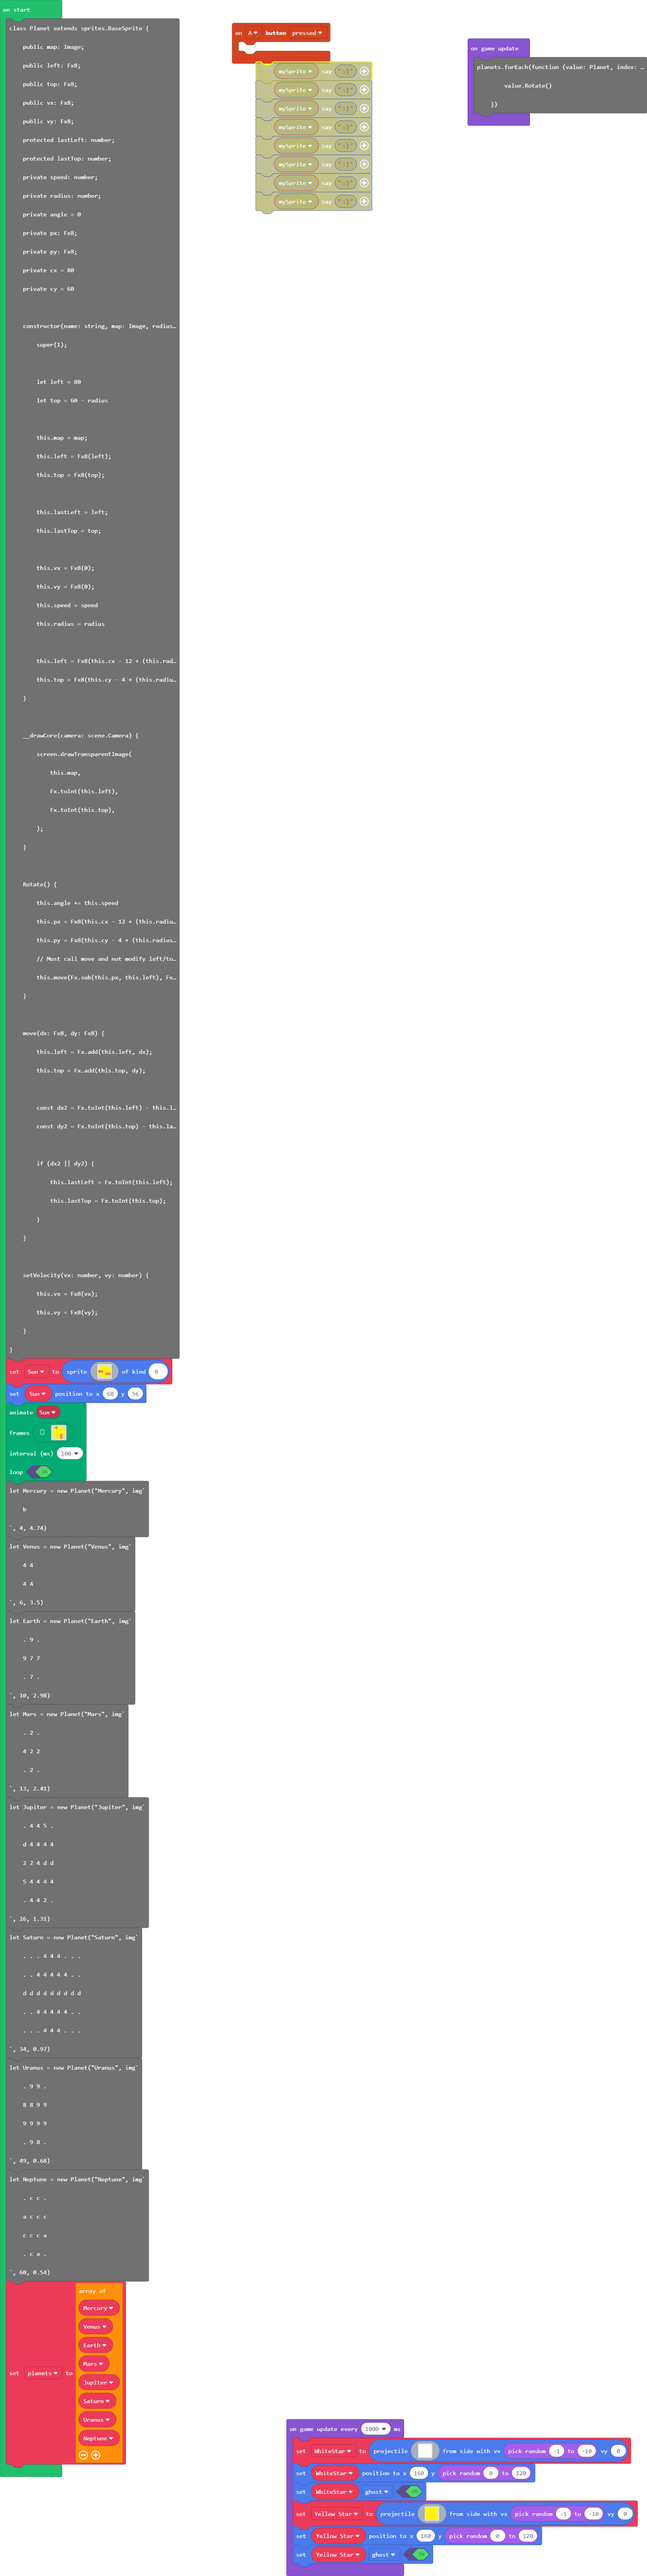
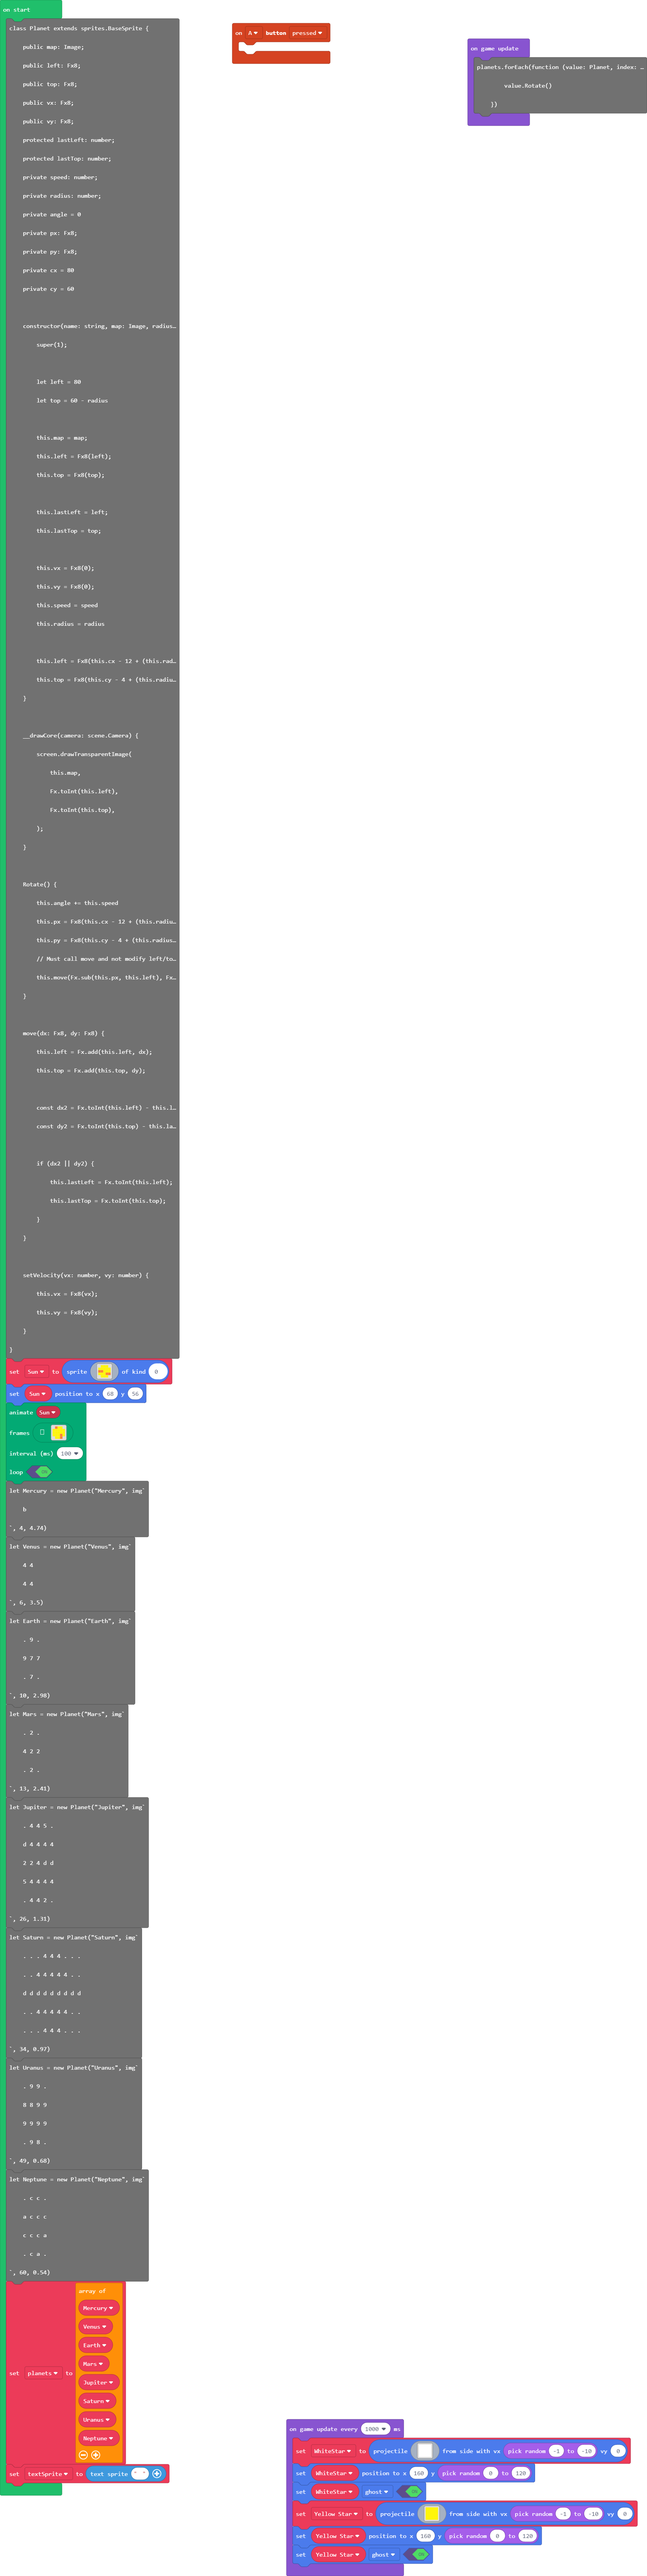
Update pxt.json, main.blocks, main.ts

Changed region(s): [[0.3737, 0.0, 0.5916, 0.0935], [0.0, 0.9347, 0.2802, 0.9658]]

diff --git a/main.ts b/main.ts
@@ -145,6 +145,7 @@ let Neptune = new Planet("Neptune", img`
     . c a .
 `, 60, 0.54)
 let planets = [Mercury, Venus, Earth, Mars, Jupiter, Saturn, Uranus, Neptune]
+let textSprite = textsprite.create("")
 game.onUpdate(function () {
     planets.forEach(function (value: Planet, index: number) {
         value.Rotate()        
